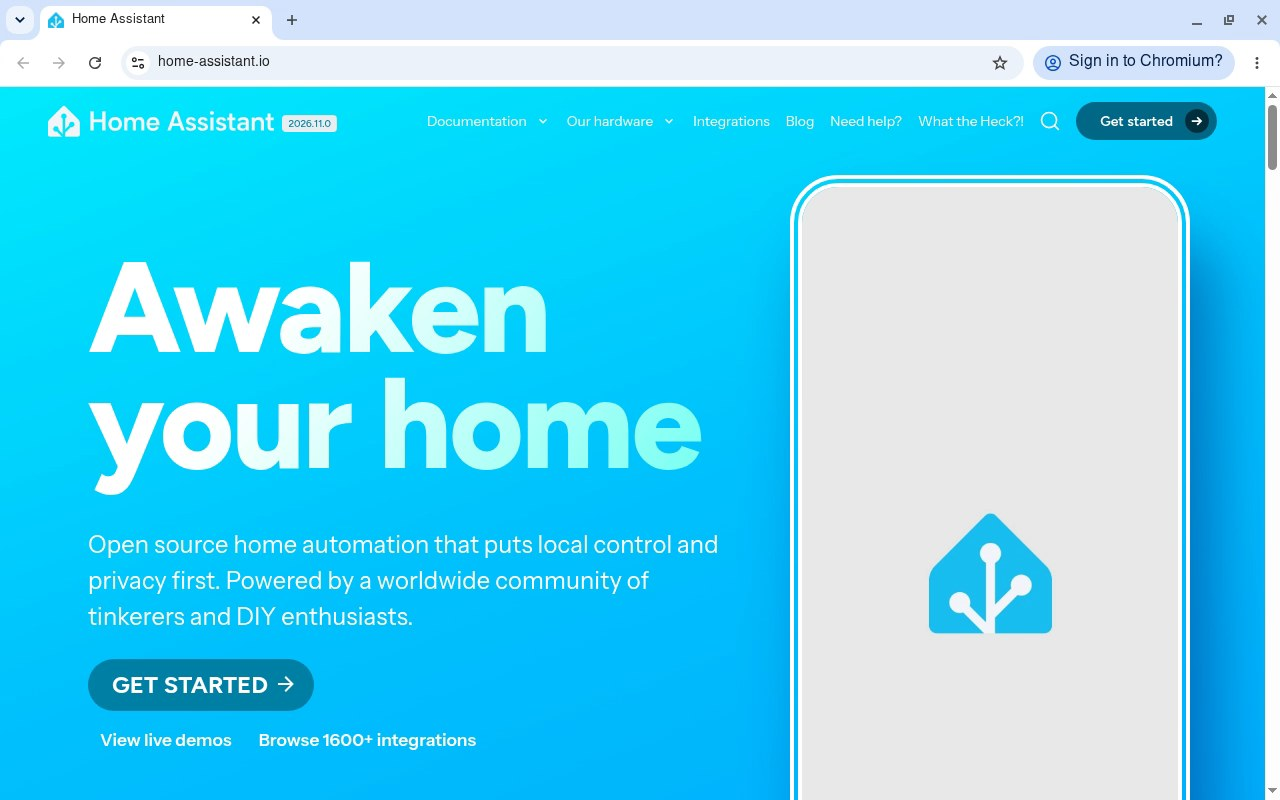
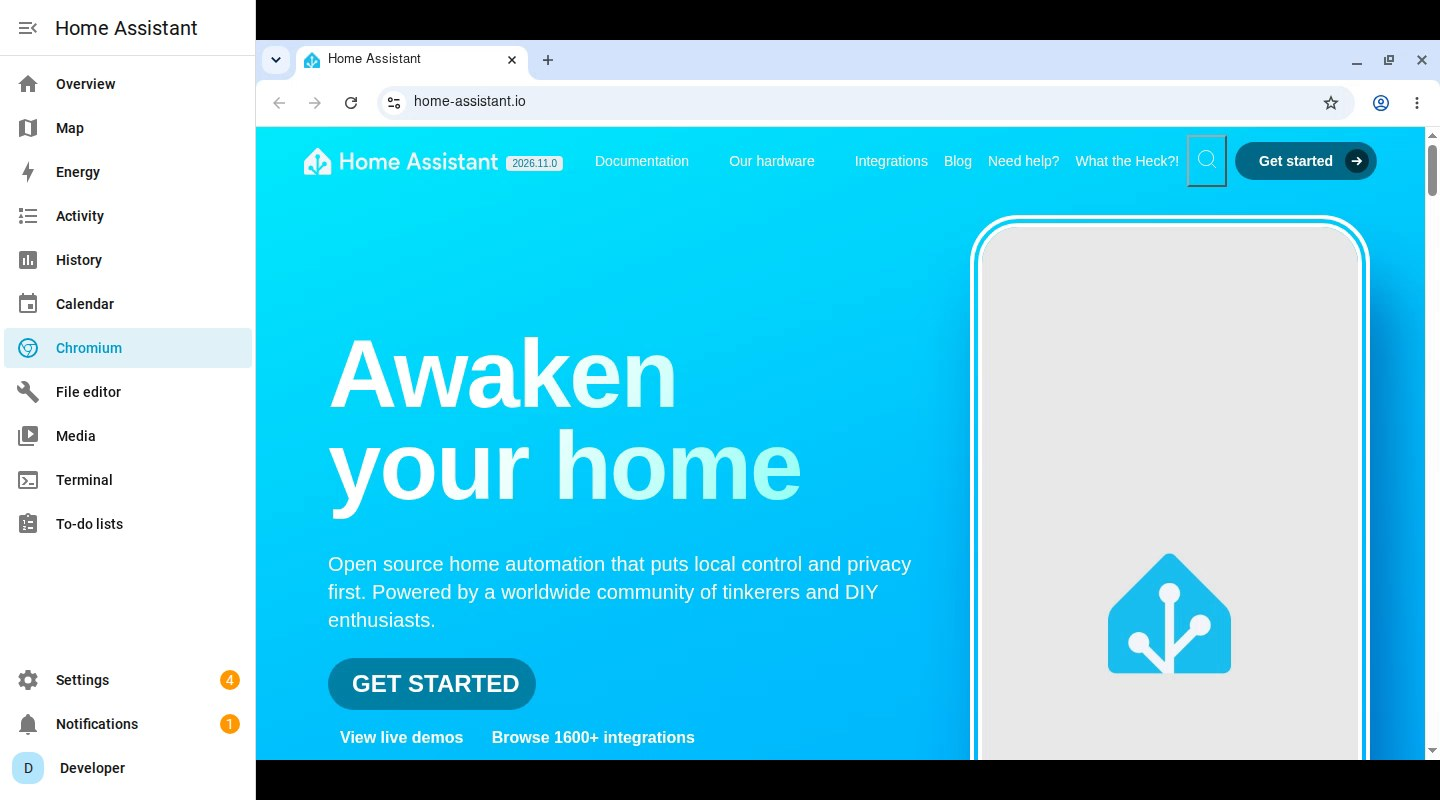
docs: show real Home Assistant sidebar and current setup [skip ci]

diff --git a/AUTOMATION.md b/AUTOMATION.md
@@ -4,28 +4,30 @@ The optional companion integration adds native Home Assistant actions for the
 Chromium desktop. It is separate from the add-on: installing an add-on does not
 install code into Home Assistant Core.
 
-## Setup with HACS
+## Setup with Marketplace or HACS
 
 Requires **Home Assistant 2026.10.0 or newer** and the **Voxl Chromium add-on
 0.3.0 or newer** for discovery-based setup.
 
-1. [Open this repository in HACS](https://my.home-assistant.io/redirect/hacs_repository/?owner=ColeMundus&repository=ha-voxl-chromium&category=integration),
-   add it as an **Integration**, and download **Voxl Chromium**. Restart Home
-   Assistant when HACS asks.
+1. Install the companion from `https://github.com/ColeMundus/ha-voxl-chromium`
+   as an **Integration**, then restart Home Assistant:
+   - **HA 2026.11 or newer:** use **Settings → Marketplace → Custom repositories**.
+     Marketplace is built in; connect GitHub if prompted to add a custom repository.
+   - **HA 2026.10:** [open this repository in HACS](https://my.home-assistant.io/redirect/hacs_repository/?owner=ColeMundus&repository=ha-voxl-chromium&category=integration)
+     or use **HACS → ⋮ → Custom repositories**.
 2. In the add-on's **Configuration** tab, enable **Home Assistant actions**
    (`automation_enabled`), save, and restart the add-on.
 3. Open **Settings → Devices & services** and confirm the discovered **Voxl
    Chromium** integration. The add-on supplies the hostname, port and a generated
    credential over Supervisor discovery; there is no token to copy.
 
-If the HACS link does not open, go to **HACS → ⋮ → Custom repositories**, add
-`https://github.com/ColeMundus/ha-voxl-chromium` with type **Integration**, then
-open and download it. The add-on and integration use the **same repository**;
-there is no second GitHub repo to register.
+The add-on and integration use the **same repository**; there is no second
+GitHub repo to register. HACS has been replaced by native Marketplace on
+HA 2026.11+, so do not install legacy HACS on those versions.
 
 An add-on runs in its own container. A custom integration runs inside Home
 Assistant Core. Installing an add-on cannot install a custom integration into
-Core, so HACS installation is a separate one-time step. Discovery makes pairing
+Core, so Marketplace/HACS installation is a separate one-time step. Discovery makes pairing
 simple after the integration code is installed. No configuration-folder mount
 or extra Supervisor/Core API permission is needed.
 

diff --git a/TESTING.md b/TESTING.md
@@ -34,7 +34,7 @@ See [CONTRIBUTING.md](CONTRIBUTING.md) for the exact development commands.
 
 ## Verification status
 
-- [Version 0.2.1 native amd64/aarch64 CI](https://github.com/ColeMundus/ha-voxl-chromium/actions/runs/42115960910)
+- [Version 0.3.0 native amd64/aarch64 CI](https://github.com/ColeMundus/ha-voxl-chromium/actions/runs/42127093496)
   passed builds, browser tests and both security gates.
 - Add-on upgrades from 0.1.1 → 0.2.0 → 0.2.1, backup creation, companion
   integration installation, restore-window/wait/screenshot actions and bundled
@@ -45,9 +45,13 @@ See [CONTRIBUTING.md](CONTRIBUTING.md) for the exact development commands.
   not verified. Restart/profile persistence is covered by disposable containers;
   a future destructive restore exercise should use a disposable Supervisor host,
   not the working household installation.
-- Version 0.3.0 browser recovery passes the disposable-container smoke test;
-  discovery is covered by the real Core flow harness and Supervisor API fixtures.
-  That is not a claim of a fresh HACS installation or live Supervisor discovery.
+- A separate **HAOS 18.4 / Core 2026.11.0** demo VM verified a fresh 0.3.0
+  app-store source install, real Supervisor discovery/confirmation, native
+  restore/wait/screenshot actions and actual WebCodecs decoding through Ingress.
+  Its companion files used the documented manual fallback; this does not claim a
+  completed Marketplace/HACS custom-repository installation.
+- Version 0.3.0 closed-browser recovery also passes the disposable-container
+  smoke test. Public screenshots show the separate demo VM, not a household HA.
 
 Current and historical results are available in the repository's
 [Actions tab](https://github.com/ColeMundus/ha-voxl-chromium/actions).

diff --git a/README.md b/README.md
@@ -15,15 +15,16 @@ A persistent Chromium browser inside Home Assistant, streamed through
 - Opens through Home Assistant; no additional published ports.
 - Optional native Home Assistant automation actions: open URLs, restore Chromium,
   capture screenshots, record clips and wait for screen changes. Install the
-  companion integration from this **same repository through HACS**, enable
+  companion integration from this **same repository through Marketplace or HACS**, enable
   **Home Assistant actions** in the add-on, then confirm discovery—no hostname or
   token copying. See [automation setup](AUTOMATION.md).
 
 ## Screenshots
 
-Chromium streamed through Voxl, displaying the public Home Assistant website.
+The **Chromium** sidebar entry opens Voxl inside Home Assistant. This is a real
+demo HAOS installation, not a personal Home Assistant instance.
 
-![Chromium desktop displaying the Home Assistant website](docs/screenshots/browser.jpg)
+![Voxl Chromium running inside Home Assistant with its sidebar visible](docs/screenshots/browser.jpg)
 
 <details>
 <summary>Reopening a closed browser</summary>
